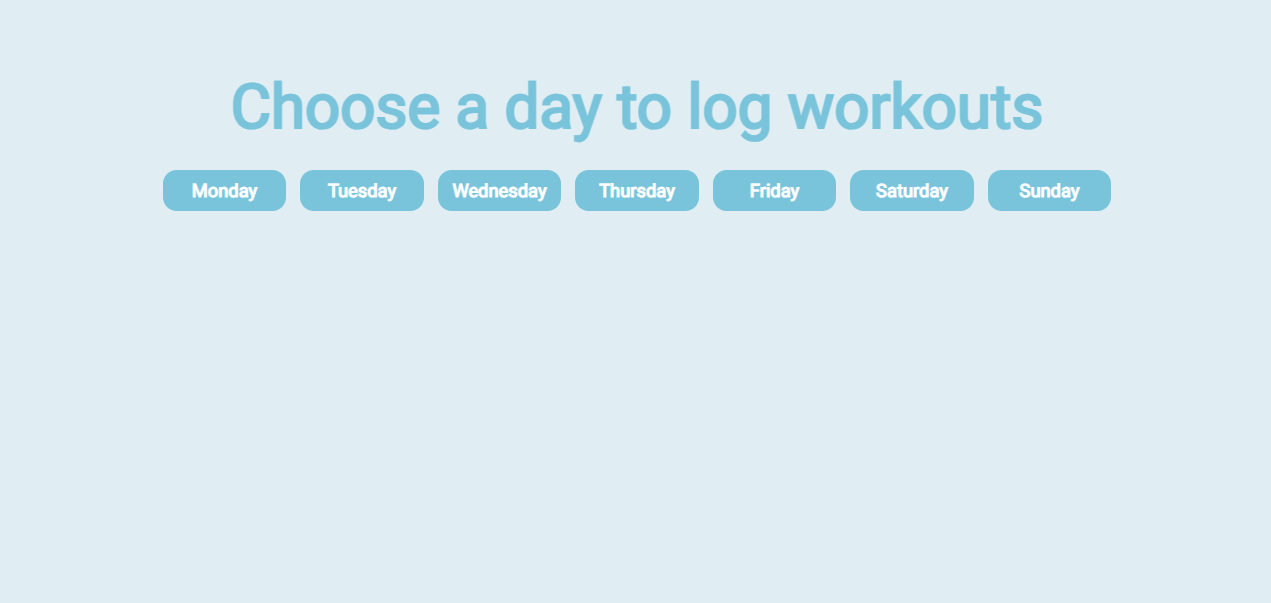
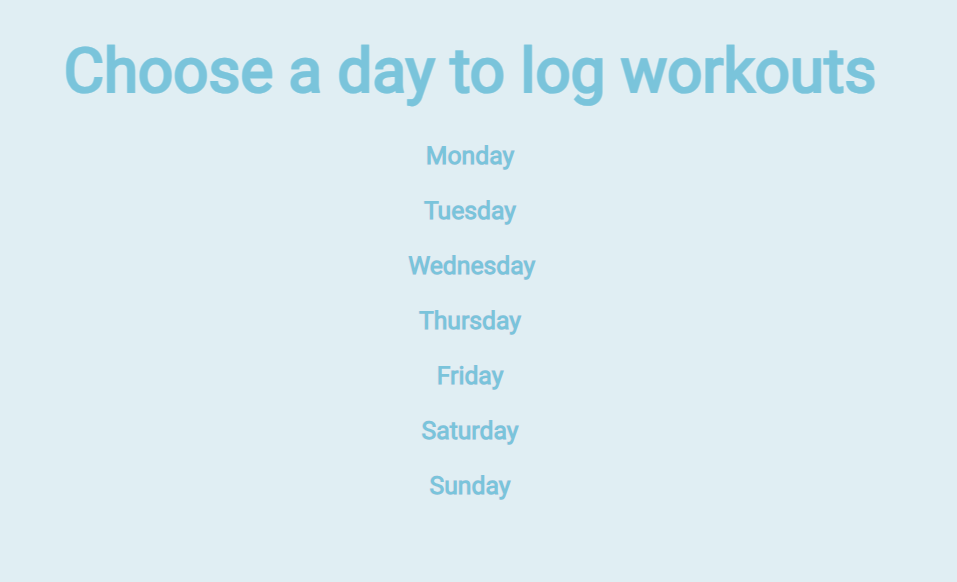
Restyled application

diff --git a/vite-project/src/DaysBar.tsx b/vite-project/src/DaysBar.tsx
@@ -32,100 +32,102 @@ export const DaysBar = () => {
   return (
     <div className="workout-log-main">
       <div className="title">Choose a day to log workouts</div>
-      <div className="bar">
-        <button
-          className="button2"
-          onClick={() => handleButtonClick("Monday")}
-        >
-          Monday
-        </button>
-        <button
-          className="button2"
-          onClick={() => handleButtonClick("Tuesday")}
-        >
-          Tuesday
-        </button>
-        <button
-          className="button2"
-          onClick={() => handleButtonClick("Wednesday")}
-        >
-          Wednesday
-        </button>
-        <button
-          className="button2"
-          onClick={() => handleButtonClick("Thursday")}
-        >
-          Thursday
-        </button>
-        <button
-          className="button2"
-          onClick={() => handleButtonClick("Friday")}
-        >
-          Friday
-        </button>
-        <button
-          className="button2"
-          onClick={() => handleButtonClick("Saturday")}
-        >
-          Saturday
-        </button>
-        <button
-          className="button2"
-          onClick={() => handleButtonClick("Sunday")}
-        >
-          Sunday
-        </button>
+      <div className="bar-log">
+        <div className="bar">
+          <button
+            className="button2"
+            onClick={() => handleButtonClick("Monday")}
+          >
+            Monday
+          </button>
+          <button
+            className="button2"
+            onClick={() => handleButtonClick("Tuesday")}
+          >
+            Tuesday
+          </button>
+          <button
+            className="button2"
+            onClick={() => handleButtonClick("Wednesday")}
+          >
+            Wednesday
+          </button>
+          <button
+            className="button2"
+            onClick={() => handleButtonClick("Thursday")}
+          >
+            Thursday
+          </button>
+          <button
+            className="button2"
+            onClick={() => handleButtonClick("Friday")}
+          >
+            Friday
+          </button>
+          <button
+            className="button2"
+            onClick={() => handleButtonClick("Saturday")}
+          >
+            Saturday
+          </button>
+          <button
+            className="button2"
+            onClick={() => handleButtonClick("Sunday")}
+          >
+            Sunday
+          </button>
+        </div>
+        {/*If workoutLogDay is set to <day>, render WorkOutLog component for that day, pass in item[][] array and call back function as props*/}
+        {workoutLogDay === "Monday" && (
+          <WorkOutLog
+            day="Monday"
+            array={itemsArray}
+            updateArray={updateItemsArray}
+          />
+        )}
+        {workoutLogDay === "Tuesday" && (
+          <WorkOutLog
+            day="Tuesday"
+            array={itemsArray}
+            updateArray={updateItemsArray}
+          />
+        )}
+        {workoutLogDay === "Wednesday" && (
+          <WorkOutLog
+            day="Wednesday"
+            array={itemsArray}
+            updateArray={updateItemsArray}
+          />
+        )}
+        {workoutLogDay === "Thursday" && (
+          <WorkOutLog
+            day="Thursday"
+            array={itemsArray}
+            updateArray={updateItemsArray}
+          />
+        )}
+        {workoutLogDay === "Friday" && (
+          <WorkOutLog
+            day="Friday"
+            array={itemsArray}
+            updateArray={updateItemsArray}
+          />
+        )}
+        {workoutLogDay === "Saturday" && (
+          <WorkOutLog
+            day="Saturday"
+            array={itemsArray}
+            updateArray={updateItemsArray}
+          />
+        )}
+        {workoutLogDay === "Sunday" && (
+          <WorkOutLog
+            day="Sunday"
+            array={itemsArray}
+            updateArray={updateItemsArray}
+          />
+        )}
       </div>
-      {/*If workoutLogDay is set to <day>, render WorkOutLog component for that day, pass in item[][] array and call back function as props*/}
-      {workoutLogDay === "Monday" && (
-        <WorkOutLog
-          day="Monday"
-          array={itemsArray}
-          updateArray={updateItemsArray}
-        />
-      )}
-      {workoutLogDay === "Tuesday" && (
-        <WorkOutLog
-          day="Tuesday"
-          array={itemsArray}
-          updateArray={updateItemsArray}
-        />
-      )}
-      {workoutLogDay === "Wednesday" && (
-        <WorkOutLog
-          day="Wednesday"
-          array={itemsArray}
-          updateArray={updateItemsArray}
-        />
-      )}
-      {workoutLogDay === "Thursday" && (
-        <WorkOutLog
-          day="Thursday"
-          array={itemsArray}
-          updateArray={updateItemsArray}
-        />
-      )}
-      {workoutLogDay === "Friday" && (
-        <WorkOutLog
-          day="Friday"
-          array={itemsArray}
-          updateArray={updateItemsArray}
-        />
-      )}
-      {workoutLogDay === "Saturday" && (
-        <WorkOutLog
-          day="Saturday"
-          array={itemsArray}
-          updateArray={updateItemsArray}
-        />
-      )}
-      {workoutLogDay === "Sunday" && (
-        <WorkOutLog
-          day="Sunday"
-          array={itemsArray}
-          updateArray={updateItemsArray}
-        />
-      )}
     </div>
   );
 };

diff --git a/vite-project/src/WorkoutLog.tsx b/vite-project/src/WorkoutLog.tsx
@@ -99,6 +99,8 @@ export const WorkOutLog = ({ day, array, updateArray }: Prop) => {
       completed: false,
     };
 
+    setInput(""); //reset input state variable value
+
     if (day === "Monday") {
       //create copy of array from DaysBar.tsx
       const newArray = [...array];
@@ -150,7 +152,9 @@ export const WorkOutLog = ({ day, array, updateArray }: Prop) => {
   };
   return (
     <div className="main-container">
-      <h1 style={{color: "#7ac4db", fontWeight: "bold"}}>Workout log for {day}</h1>
+      <h1 style={{ color: "#7ac4db", fontWeight: "bold" }}>
+        Workout log for {day}
+      </h1>
       <ul>
         {/* List all current workouts for the day selected */}
         {workouts.map((workout) => (
@@ -167,16 +171,19 @@ export const WorkOutLog = ({ day, array, updateArray }: Prop) => {
         ))}
       </ul>
       {/*Receive input from user, pass event value to setInput function*/}
-      <input
-        className="input"
-        type="text"
-        placeholder="Add workouts w/ sets, reps, miles, etc."
-        onChange={(e) => setInput(e.currentTarget.value)}
-      />
-      {/* Add button */}
-      <button onClick={handleClick} className="button">
-        Add
-      </button>
+      <div className="input-and-button">
+        <input
+          className="input"
+          type="text"
+          value={input}
+          placeholder="Add workouts w/ sets, reps, miles, etc."
+          onChange={(e) => setInput(e.currentTarget.value)}
+        />
+        {/* Add button */}
+        <button onClick={handleClick} className="button">
+          Add
+        </button>
+      </div>
     </div>
   );
 };

diff --git a/vite-project/src/Days.css b/vite-project/src/Days.css
@@ -13,23 +13,32 @@
   font-weight: bold;
 }
 
+.bar-log{
+  display: flex;
+  flex-direction: row;
+  gap: 10px;
+}
+
 .bar{
   display: flex;
+  flex-direction: column;
   gap: 10px;
 }
 
 .button2{
   height: 30px;
   width: 90px;
-  background-color: #7ac4db;
-  color: white;
+  background-color: #e0eef3;
+  color: #7ac4db;
   cursor: pointer;
   font-weight: bold;
-  border-radius: 10px;
+  font-size: large;
+  border-radius: 3px;
   border-style: none;
 }
 
 .button2:hover{
   background-color: #528ea0;
-  transition: background-color 0.8s ease;
+  color: white;
+  transition: background-color 0.8s ease, color 0.8s ease;
 }

diff --git a/vite-project/src/index.css b/vite-project/src/index.css
@@ -13,11 +13,8 @@
 - this class is for the entire to thing
 */
 .main-container{
-  margin-top: 10px;
   display: flex;
   flex-direction: column;
-  justify-content: center;
-  align-items: center;
 }
 /*
 - this class is for the input box
@@ -74,4 +71,11 @@ appears as clickable
 .button:hover{
   background-color: #528ea0;
   transition: background-color 0.8s ease;
+}
+
+.input-and-button{
+  display: flex;
+  flex-direction: row;
+  gap: 5px;
+  align-items: center;
 }
